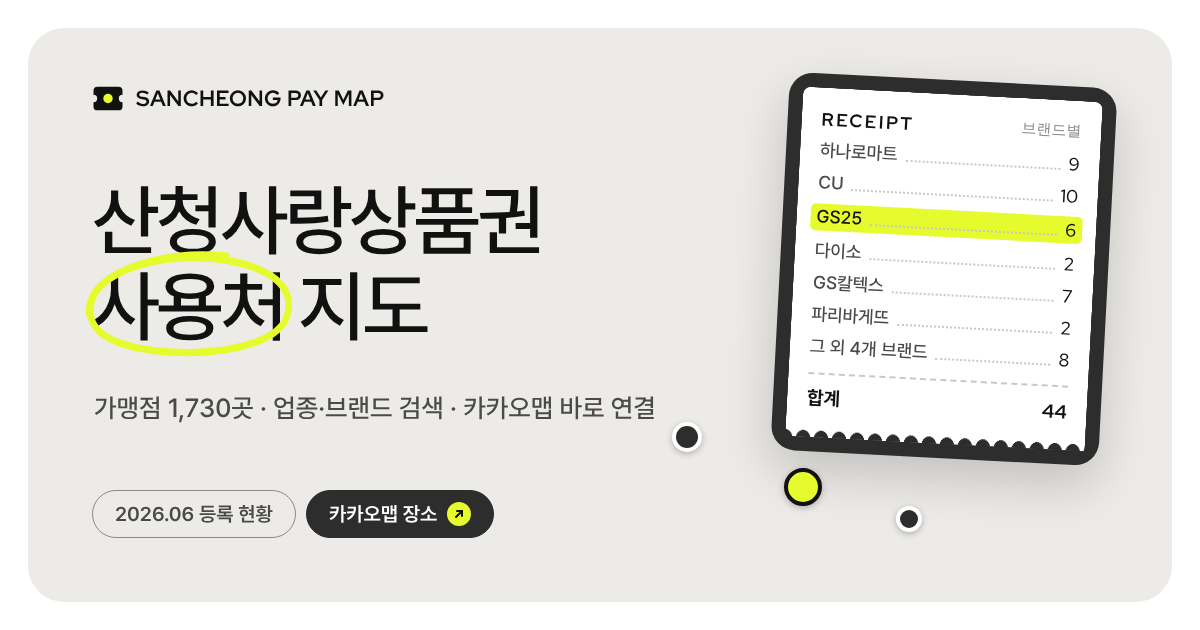
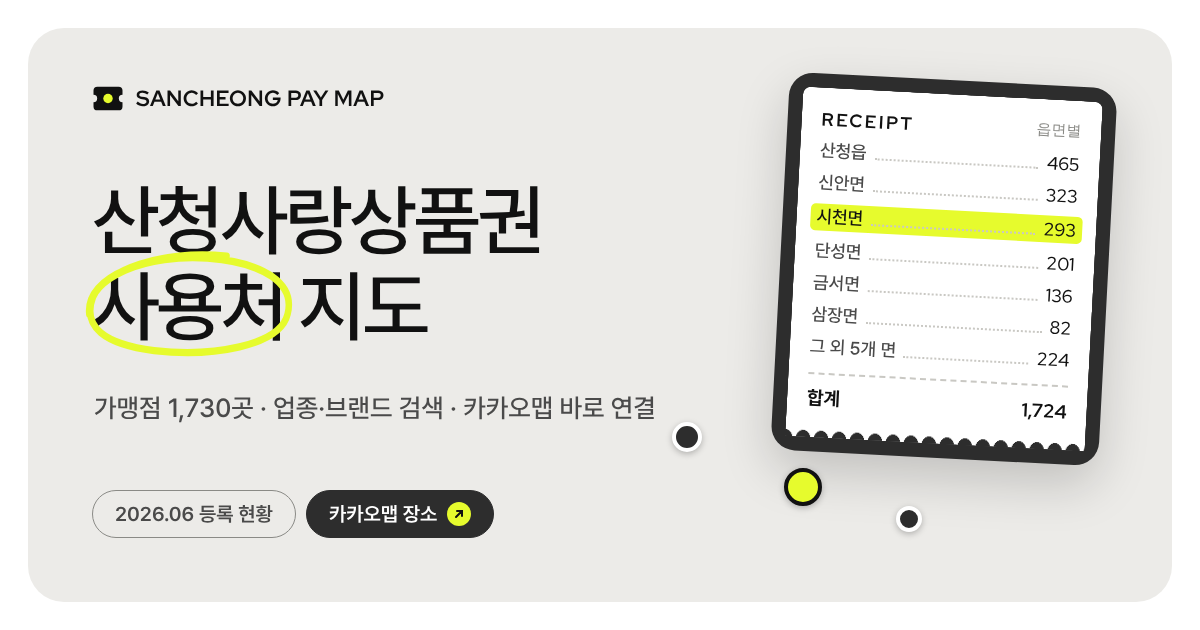
fix: township receipt back in share image
Claude-Session: https://claude.ai/code/session_01VX87BWbnsXUswMvWABp14j

diff --git a/index.html b/index.html
@@ -17,7 +17,7 @@
 <meta property="og:image" content="https://ditto-404.github.io/sancheong-gift-map/og-image.png">
 <meta property="og:image:width" content="1200">
 <meta property="og:image:height" content="630">
-<meta property="og:image:alt" content="산청사랑상품권 사용처 지도: 가맹점 1,730곳, 브랜드별 영수증 모양 요약">
+<meta property="og:image:alt" content="산청사랑상품권 사용처 지도: 가맹점 1,730곳, 읍면별 영수증 모양 요약">
 <meta name="twitter:card" content="summary_large_image">
 <meta name="twitter:title" content="산청사랑상품권 사용처 지도">
 <meta name="twitter:description" content="가맹점 1,730곳을 업종·브랜드별로 찾고 카카오맵으로 바로 확인하세요.">
